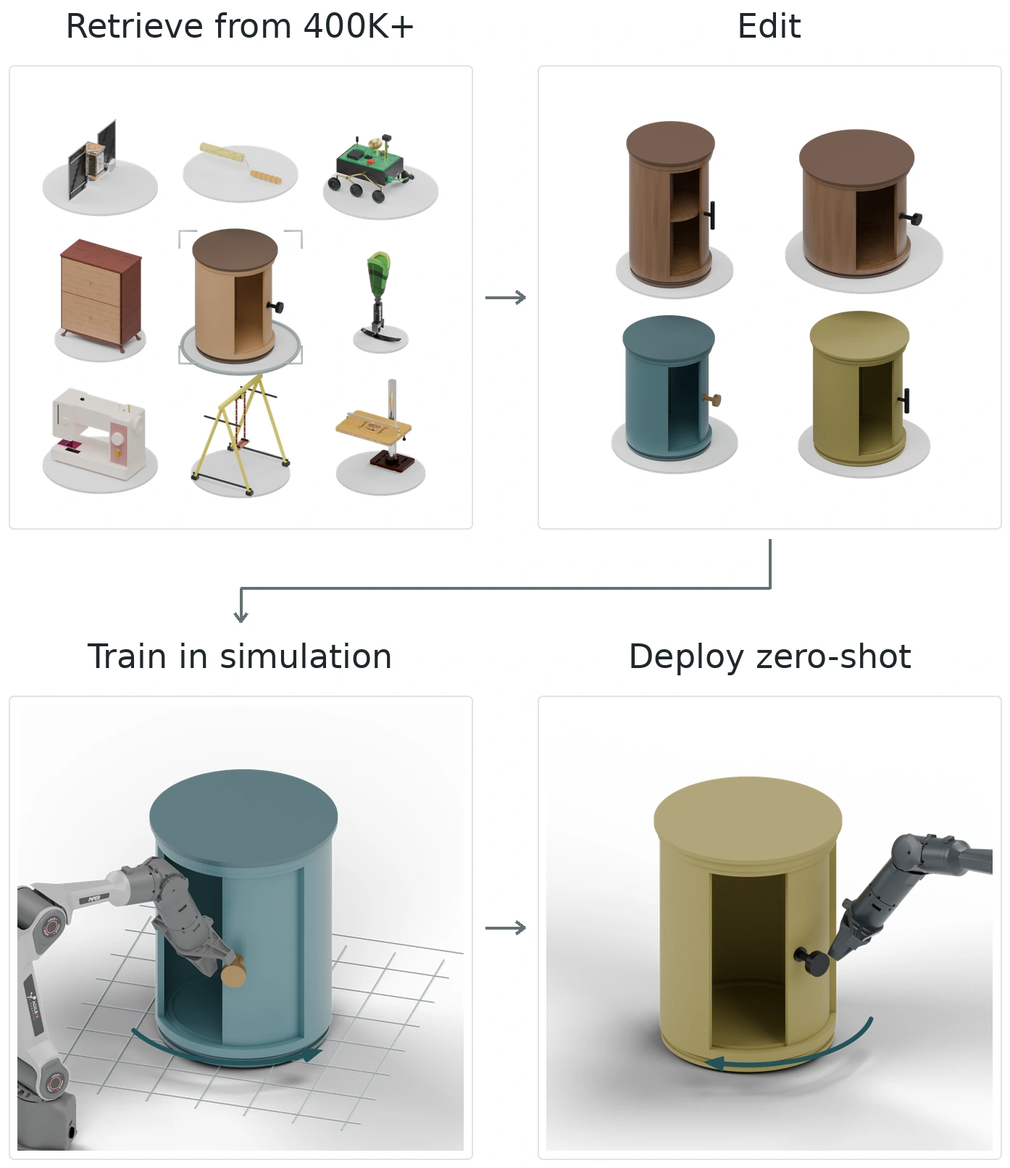
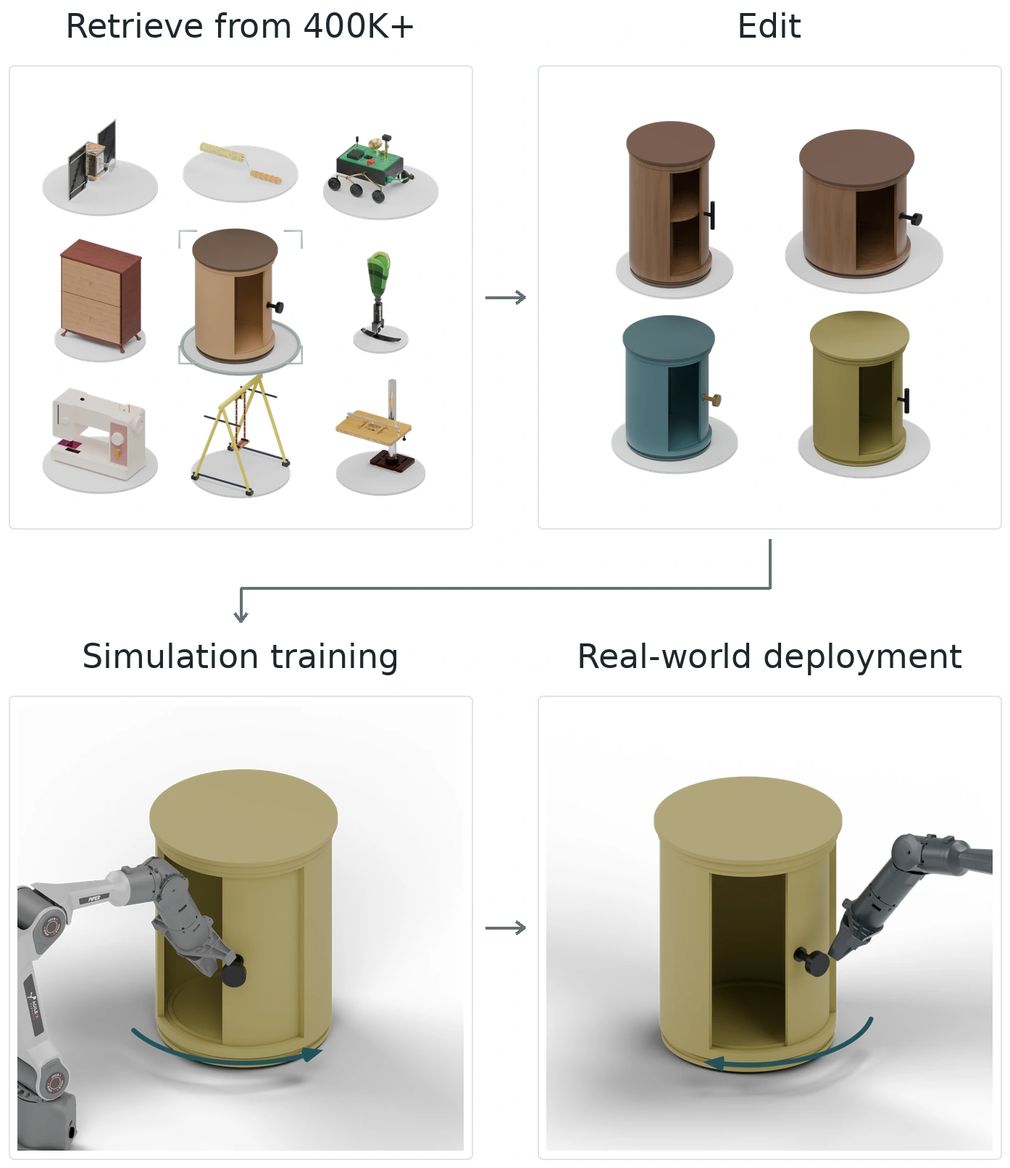
Simplify workflow captions and distinguish sim-real stages without a grid

diff --git a/src/style.css b/src/style.css
@@ -16,7 +16,7 @@
 /* Explorer remains the distinctive RFW-A interaction, but follows the reference's quiet cards. */
 .explorer{display:grid;grid-template-columns:320px minmax(0,1fr);border:1px solid var(--line);border-radius:5px;overflow:hidden;background:#fff}.asset-browser{min-height:624px;border-right:1px solid var(--line);display:flex;flex-direction:column}.browser-top{padding:16px;border-bottom:1px solid var(--line)}.browser-top>.mono{font-size:10px;color:var(--muted)}.search{display:flex;align-items:center;gap:8px;border:1px solid var(--line);border-radius:4px;padding:8px 9px;margin-top:12px}.search svg{width:15px;height:15px;color:var(--muted)}.search input{width:100%;border:0;outline:0;font-size:12px;background:transparent}.filter-row{display:flex;flex-wrap:wrap;gap:4px;margin-top:10px}.filter-row button{font-size:11px;padding:5px 8px;border-radius:3px;color:var(--muted)}.filter-row button.active{background:var(--accent);color:#fff}.asset-grid{display:grid;grid-template-columns:1fr 1fr;gap:8px;overflow-y:auto;max-height:496px;padding:11px;scrollbar-width:thin}.asset-card{text-align:left;border:1px solid var(--line);border-radius:4px;overflow:hidden;background:#fff;position:relative}.asset-card:hover{border-color:#999999}.asset-card.selected{border-color:var(--accent);box-shadow:inset 0 0 0 1px var(--accent)}.asset-card.selected:after{content:'↗';position:absolute;right:7px;top:4px;color:var(--accent);font-size:13px}.asset-card img{width:100%;aspect-ratio:1.2;object-fit:contain;background:#f5f5f5}.asset-card h4{font-size:10px;line-height:1.35;font-weight:500;margin:7px 8px 3px;overflow:hidden;text-overflow:ellipsis;white-space:nowrap}.asset-card>span{display:block;margin:0 8px 8px;font:8px var(--mono);color:var(--muted)}.empty-results{grid-column:1/-1;color:var(--muted);font-size:12px;padding:24px 8px}.asset-detail{min-width:0;position:relative;background:#fafafa}.viewer-toolbar{position:absolute;z-index:2;top:17px;left:20px;right:16px;display:flex;align-items:start;justify-content:space-between;pointer-events:none}.viewer-toolbar button{pointer-events:auto}.viewer-toolbar .eyebrow{font-size:9px}.viewer-toolbar h3{font-size:20px;margin-top:4px}.icon-button{width:29px;height:29px;display:grid;place-items:center;border:1px solid var(--line);border-radius:50%;background:#fff;font-size:13px}.icon-button:hover{border-color:var(--accent);color:var(--accent)}#model-viewer{height:365px;position:relative;background:#f5f5f5}#model-viewer canvas{width:100%;height:100%;display:block;touch-action:none}.viewer-loading{position:absolute;z-index:1;inset:0;display:grid;place-items:center;background:#f5f5f5;color:var(--muted);font:10px var(--mono);pointer-events:none}.viewer-loading[hidden]{display:none}.viewer-hint{position:absolute;bottom:12px;left:20px;color:#888888;font:8px var(--mono);letter-spacing:.04em;pointer-events:none}.motion-controls{display:flex;align-items:center;gap:11px;padding:10px 17px;border-top:1px solid var(--line);border-bottom:1px solid var(--line);background:#fff}.motion-controls .icon-button{width:25px;height:25px;font-size:10px}.motion-controls input{flex:1}.motion-controls .mono{font-size:9px;min-width:40px;text-align:right;color:var(--muted)}.asset-info-tabs{display:flex;gap:24px;padding:0 19px;border-bottom:1px solid var(--line);background:#fff}.asset-info-tabs button{font-size:11px;padding:12px 0;border-bottom:2px solid transparent;color:var(--muted)}.asset-info-tabs button[aria-selected=true]{border-bottom-color:var(--accent);color:var(--accent)}.asset-info{padding:15px 19px;min-height:145px;background:#fff}.info-summary{display:flex;gap:28px}.info-summary span{display:block;font-size:9px;color:var(--muted);margin-bottom:2px}.info-summary strong{font-size:17px;font-weight:500}.joint-chips{display:flex;gap:5px;flex-wrap:wrap;margin-top:11px}.joint-chips span{border:1px solid var(--line);padding:4px 6px;border-radius:3px;font:8px var(--mono);color:var(--muted)}.viewer-note{font-size:9px;color:var(--muted);padding:4px 19px 12px;background:#fff}.material-select{width:100%;border:1px solid var(--line);border-radius:3px;background:#fff;padding:7px;font-size:10px;margin-bottom:9px}.material-parts{font-size:8px;color:var(--muted);margin-bottom:9px}.physics-grid{display:grid;grid-template-columns:repeat(3,1fr);gap:9px}.physics-grid>div{font-size:10px}.physics-grid small{display:block;color:var(--muted);font-size:8px;margin-bottom:2px}.joint-limits{font-size:9px;margin-top:10px}.joint-limits summary{cursor:pointer;color:var(--muted)}.joint-limits dl{display:grid;grid-template-columns:1fr auto;gap:5px 14px;margin:8px 0}.joint-limits dd{margin:0;color:var(--muted);font-family:var(--mono);font-size:8px}
 /* Method, editing, material and benchmark blocks stay rectangular and information-first. */
-.idea-section{background:#fff;border-block:1px solid var(--line)}.flow-symbol{display:block;color:var(--accent);font:20px var(--mono);margin-bottom:12px}.step-number{position:absolute;top:18px;right:16px;color:var(--muted);font:10px var(--mono)}.figure-button{width:100%;border:1px solid var(--line);background:#fff;border-radius:4px;text-align:left;padding:13px}.figure-button img{width:100%;height:auto;object-fit:contain}.figure-button>span{display:flex;justify-content:space-between;font:13px/1.5 var(--sans);color:var(--muted);padding:14px 2px 0}.cost-panel{display:grid;grid-template-columns:1fr 1fr;gap:65px;margin-top:44px;padding-top:30px;border-top:1px solid var(--line)}.cost-panel h3{font-size:24px;margin:7px 0}.cost-panel p{font-size:12px;color:var(--muted);max-width:420px}.cost-label{display:flex;justify-content:space-between;font-size:11px;margin:23px 0 12px}.cost-label output{font:12px var(--mono);color:var(--accent)}#sample-count{width:100%}.range-labels{display:flex;justify-content:space-between;color:var(--muted);font-size:9px;margin-top:5px}.cost-row{display:grid;grid-template-columns:1fr auto auto;align-items:baseline;gap:8px;margin-bottom:16px}.cost-row>span{font-size:11px}.cost-row>strong{font-size:24px;font-weight:500}.cost-row small{font-size:9px;color:var(--muted)}.cost-track{grid-column:1/-1;height:6px;background:#e2e2e2;border-radius:2px;overflow:hidden}.cost-track i{display:block;height:100%;background:#aaaaaa}.cost-row.ours{color:var(--accent)}.cost-row.ours .cost-track i{background:var(--accent)}.cost-footnote{font-size:9px!important;line-height:1.6}.pill-tabs{display:flex;gap:5px;flex-wrap:wrap}.pill-tabs button{font-size:11px;border:1px solid var(--line);border-radius:4px;padding:8px 12px;color:var(--muted);background:#fff}.pill-tabs button[aria-selected=true]{border-color:var(--accent);background:var(--accent-soft);color:var(--accent)}.editing-tabs button{font-size:10px}.editing-tabs button span{font-size:11px;margin-left:10px}.edit-workbench{display:grid;grid-template-columns:minmax(0,1fr) 280px;border:1px solid var(--line);border-radius:4px;overflow:hidden;margin-top:16px}.edit-images{display:grid;grid-template-columns:1fr 1fr;background:var(--faint);position:relative}.edit-images figure{padding:15px;display:flex;flex-direction:column;min-width:0}.edit-images img{width:100%;aspect-ratio:1;object-fit:contain;margin:9px 0 12px;mix-blend-mode:multiply}.image-tag{font-size:8px;color:var(--muted)}.image-tag.accent{color:var(--accent)}.edit-images figcaption{font-size:11px;margin-top:auto;text-align:center}.edit-arrow{position:absolute;left:50%;top:50%;transform:translate(-50%,-50%);color:var(--accent);font-size:19px}.edit-control{border-left:1px solid var(--line);background:#fff;padding:23px 20px}.edit-control .eyebrow{font-size:9px}.edit-control h3{font-size:20px;margin:9px 0 7px}.edit-control p{font-size:11px;color:var(--muted);line-height:1.6}.edit-control fieldset{border:0;padding:0;margin:17px 0;display:flex;gap:5px;flex-wrap:wrap}.edit-control fieldset button{font-size:10px;border:1px solid var(--line);border-radius:3px;padding:6px 8px}.edit-control fieldset button[aria-pressed=true]{border-color:var(--accent);color:var(--accent);background:var(--accent-soft)}.code-readout{border:1px solid var(--line);background:var(--faint);padding:10px}.code-readout span{display:block;font-size:8px;color:var(--muted)}.code-readout code{font:10px/1.7 var(--mono);color:var(--accent)}.edit-control .note{font-size:8px;margin-top:10px}.material-section{display:grid;grid-template-columns:1fr 1fr;gap:70px;padding:72px 0;border-bottom:1px solid var(--line)}.material-copy h2{font-size:38px;line-height:1.2;margin:8px 0 13px}.material-copy>p{font-size:13px;color:var(--muted);max-width:420px}.material-stats{display:flex;gap:30px;margin:22px 0}.material-stats strong{font-size:25px;font-weight:500}.material-stats span{display:block;font-size:10px;color:var(--muted)}.material-copy .note{font-family:var(--sans);font-size:10px}.material-diagram{border:1px solid var(--line);padding:24px;border-radius:4px;background:var(--faint);align-self:center}.material-diagram>.mono{font-size:9px;color:var(--muted)}.property-list{display:grid;grid-template-columns:1fr 1fr;margin-top:13px;gap:0 25px}.property-list>span{display:flex;align-items:center;gap:8px;padding:15px 0;border-bottom:1px solid var(--line);font-size:11px}.property-list i{font:italic 19px var(--sans);color:var(--accent);width:22px}.property-list small{font:8px var(--mono);color:var(--muted);margin-left:auto}.material-diagram .text-link{font-size:10px;margin-top:20px}.results-section{background:#fff;border-bottom:1px solid var(--line)}.result-highlights{display:grid;grid-template-columns:repeat(3,1fr);gap:25px;margin:38px 0}.result-highlights article{border-left:2px solid var(--line);padding-left:18px}.result-highlights article:first-child{border-left-color:var(--accent)}.result-highlights .mono{font-size:9px;color:var(--muted)}.result-highlights strong{display:block;font-size:38px;font-weight:500;letter-spacing:-.04em;margin:9px 0 5px}.result-highlights strong span{font-size:18px;color:var(--accent)}.result-highlights p{font-size:11px;color:var(--muted)}.benchmark-toolbar{display:flex;justify-content:space-between;align-items:center;gap:15px;margin-bottom:17px}.benchmark-toolbar label{font-size:11px;color:var(--muted)}.benchmark-toolbar select{border:1px solid var(--line);background:#fff;border-radius:3px;padding:5px 8px;font-size:11px}.table-scroll{overflow:auto;border:1px solid var(--line);border-radius:4px}table{width:100%;border-collapse:collapse;text-align:right;white-space:nowrap;font-size:11px}th{padding:11px 14px;text-align:right;background:var(--faint);font-size:10px;color:var(--muted);font-weight:500}th:first-child,td:first-child{text-align:left}td,tbody th{padding:10px 14px;border-top:1px solid var(--line);font-size:11px}tbody th{background:#fff;color:var(--ink);font-weight:400}tbody tr.ours{background:var(--accent-soft);color:var(--accent);font-weight:600}tbody tr.ours th{font-weight:600;background:transparent;color:var(--accent)}.table-note{font-size:10px;color:var(--muted);line-height:1.7;margin-top:10px;max-width:950px}.qualitative{border-top:1px solid var(--line);margin-top:22px;padding-top:15px;font-size:11px}.qualitative summary{display:flex;justify-content:space-between;cursor:pointer}.qualitative img{margin-top:18px}.abstract{max-width:720px;margin:30px auto 0;border-top:1px solid var(--line);padding-top:13px;text-align:left;font-size:11px}.abstract summary{display:flex;justify-content:space-between;cursor:pointer}.abstract p{font-size:12px;color:var(--muted);line-height:1.8;margin-top:15px}footer{border-top:1px solid var(--line);padding:22px 0;display:flex;justify-content:space-between;align-items:center;color:var(--muted)}footer p{font-size:10px;text-align:center;line-height:1.6}footer p a{color:var(--accent)}.back-top{font-size:10px}.media-dialog{padding:0;border:0;border-radius:5px;background:#222222;max-width:min(1100px,92vw);max-height:90vh;overflow:visible}.media-dialog::backdrop{background:#222222cc;backdrop-filter:blur(5px)}.media-dialog video{max-height:85vh;width:100%}.dialog-close{position:absolute;right:0;top:-35px;color:#fff;font-size:18px}.figure-dialog{background:#fff;overflow:auto}.figure-dialog img{max-height:80vh}.figure-dialog p{padding:12px;font-size:11px;color:var(--muted)}.sr-only{position:absolute;width:1px;height:1px;overflow:hidden;clip:rect(0,0,0,0);white-space:nowrap}[hidden]{display:none!important}
+.idea-section{background:#fff;border-block:1px solid var(--line)}.flow-symbol{display:block;color:var(--accent);font:20px var(--mono);margin-bottom:12px}.step-number{position:absolute;top:18px;right:16px;color:var(--muted);font:10px var(--mono)}.figure-button{width:100%;border:1px solid var(--line);background:#fff;border-radius:4px;text-align:left;padding:13px}.figure-button img{width:100%;height:auto;object-fit:contain}.figure-button>span{display:flex;justify-content:space-between;font:13px/1.5 var(--sans);color:var(--muted);padding:14px 2px 0}.cost-panel{display:grid;grid-template-columns:1fr 1fr;gap:65px;margin-top:44px;padding-top:30px;border-top:1px solid var(--line)}.cost-panel h3{font-size:24px;margin:7px 0}.cost-panel p{font-size:12px;color:var(--muted);max-width:420px}.cost-label{display:flex;justify-content:space-between;font-size:11px;margin:23px 0 12px}.cost-label output{font:12px var(--mono);color:var(--accent)}#sample-count{width:100%}.range-labels{display:flex;justify-content:space-between;color:var(--muted);font-size:9px;margin-top:5px}.cost-row{display:grid;grid-template-columns:1fr auto auto;align-items:baseline;gap:8px;margin-bottom:16px}.cost-row>span{font-size:11px}.cost-row>strong{font-size:24px;font-weight:500}.cost-row small{font-size:9px;color:var(--muted)}.cost-track{grid-column:1/-1;height:6px;background:#e2e2e2;border-radius:2px;overflow:hidden}.cost-track i{display:block;height:100%;background:#aaaaaa}.cost-row.ours{color:var(--accent)}.cost-row.ours .cost-track i{background:var(--accent)}.cost-footnote{font-size:9px!important;line-height:1.6}.pill-tabs{display:flex;gap:5px;flex-wrap:wrap}.pill-tabs button{font-size:11px;border:1px solid var(--line);border-radius:4px;padding:8px 12px;color:var(--muted);background:#fff}.pill-tabs button[aria-selected=true]{border-color:var(--accent);background:var(--accent-soft);color:var(--accent)}.editing-tabs button{font-size:10px}.editing-tabs button span{font-size:11px;margin-left:10px}.edit-workbench{display:grid;grid-template-columns:minmax(0,1fr) 280px;border:1px solid var(--line);border-radius:4px;overflow:hidden;margin-top:16px}.edit-images{display:grid;grid-template-columns:1fr 1fr;background:var(--faint);position:relative}.edit-images figure{padding:15px;display:flex;flex-direction:column;min-width:0}.edit-images img{width:100%;aspect-ratio:1;object-fit:contain;margin:9px 0 12px;mix-blend-mode:multiply}.image-tag{font-size:8px;color:var(--muted)}.image-tag.accent{color:var(--accent)}.edit-images figcaption{font-size:11px;margin-top:auto;text-align:center}.edit-arrow{position:absolute;left:50%;top:50%;transform:translate(-50%,-50%);color:var(--accent);font-size:19px}.edit-control{border-left:1px solid var(--line);background:#fff;padding:23px 20px}.edit-control .eyebrow{font-size:9px}.edit-control h3{font-size:20px;margin:9px 0 7px}.edit-control p{font-size:11px;color:var(--muted);line-height:1.6}.edit-control fieldset{border:0;padding:0;margin:17px 0;display:flex;gap:5px;flex-wrap:wrap}.edit-control fieldset button{font-size:10px;border:1px solid var(--line);border-radius:3px;padding:6px 8px}.edit-control fieldset button[aria-pressed=true]{border-color:var(--accent);color:var(--accent);background:var(--accent-soft)}.code-readout{border:1px solid var(--line);background:var(--faint);padding:10px}.code-readout span{display:block;font-size:8px;color:var(--muted)}.code-readout code{font:10px/1.7 var(--mono);color:var(--accent)}.edit-control .note{font-size:8px;margin-top:10px}.material-section{display:grid;grid-template-columns:1fr 1fr;gap:70px;padding:72px 0;border-bottom:1px solid var(--line)}.material-copy h2{font-size:38px;line-height:1.2;margin:8px 0 13px}.material-copy>p{font-size:13px;color:var(--muted);max-width:420px}.material-stats{display:flex;gap:30px;margin:22px 0}.material-stats strong{font-size:25px;font-weight:500}.material-stats span{display:block;font-size:10px;color:var(--muted)}.material-copy .note{font-family:var(--sans);font-size:10px}.material-diagram{border:1px solid var(--line);padding:24px;border-radius:4px;background:var(--faint);align-self:center}.material-diagram>.mono{font-size:9px;color:var(--muted)}.property-list{display:grid;grid-template-columns:1fr 1fr;margin-top:13px;gap:0 25px}.property-list>span{display:flex;align-items:center;gap:8px;padding:15px 0;border-bottom:1px solid var(--line);font-size:11px}.property-list i{font:italic 19px var(--sans);color:var(--accent);width:22px}.property-list small{font:8px var(--mono);color:var(--muted);margin-left:auto}.material-diagram .text-link{font-size:10px;margin-top:20px}.results-section{background:#fff;border-bottom:1px solid var(--line)}.result-highlights{display:grid;grid-template-columns:repeat(3,1fr);gap:25px;margin:38px 0}.result-highlights article{border-left:2px solid var(--line);padding-left:18px}.result-highlights article:first-child{border-left-color:var(--accent)}.result-highlights .mono{font-size:9px;color:var(--muted)}.result-highlights strong{display:block;font-size:38px;font-weight:500;letter-spacing:-.04em;margin:9px 0 5px}.result-highlights strong span{font-size:18px;color:var(--accent)}.result-highlights p{font-size:11px;color:var(--muted)}.benchmark-toolbar{display:flex;justify-content:space-between;align-items:center;gap:15px;margin-bottom:17px}.benchmark-toolbar label{font-size:11px;color:var(--muted)}.benchmark-toolbar select{border:1px solid var(--line);background:#fff;border-radius:3px;padding:5px 8px;font-size:11px}.table-scroll{overflow:auto;border:1px solid var(--line);border-radius:4px}table{width:100%;border-collapse:collapse;text-align:right;white-space:nowrap;font-size:11px}th{padding:11px 14px;text-align:right;background:var(--faint);font-size:10px;color:var(--muted);font-weight:500}th:first-child,td:first-child{text-align:left}td,tbody th{padding:10px 14px;border-top:1px solid var(--line);font-size:11px}tbody th{background:#fff;color:var(--ink);font-weight:400}tbody tr.ours{background:var(--accent-soft);color:var(--accent);font-weight:600}tbody tr.ours th{font-weight:600;background:transparent;color:var(--accent)}.table-note{font-size:10px;color:var(--muted);line-height:1.7;margin-top:10px;max-width:950px}.qualitative{border-top:1px solid var(--line);margin-top:22px;padding-top:15px;font-size:11px}.qualitative summary{display:flex;justify-content:space-between;cursor:pointer}.qualitative img{margin-top:18px}.abstract{max-width:720px;margin:30px auto 0;border-top:1px solid var(--line);padding-top:13px;text-align:left;font-size:11px}.abstract summary{display:flex;justify-content:space-between;cursor:pointer}.abstract p{font-size:12px;color:var(--muted);line-height:1.8;margin-top:15px}footer{border-top:1px solid var(--line);padding:22px 0;display:flex;justify-content:space-between;align-items:center;color:var(--muted)}footer p{font-size:10px;text-align:center;line-height:1.6}footer p a{color:var(--accent)}.back-top{font-size:10px}.media-dialog{padding:0;border:0;border-radius:5px;background:#222222;max-width:min(1100px,92vw);max-height:90vh;overflow:visible}.media-dialog::backdrop{background:#222222cc;backdrop-filter:blur(5px)}.media-dialog video{max-height:85vh;width:100%}.dialog-close{position:absolute;right:0;top:-35px;color:#fff;font-size:18px}.figure-dialog{background:#fff;overflow:auto}.figure-dialog img{max-height:80vh}.sr-only{position:absolute;width:1px;height:1px;overflow:hidden;clip:rect(0,0,0,0);white-space:nowrap}[hidden]{display:none!important}
 @media(max-width:900px){.wrap{width:calc(100% - 36px)}.header{padding:0 18px}.header nav{gap:14px}.nav-last{padding-left:14px}.intro{padding-top:55px}.section-heading{grid-template-columns:1fr 280px;gap:35px}.explorer{grid-template-columns:275px 1fr}.stats strong{font-size:26px}.stats>div{padding:0 17px}.material-section{gap:35px}.edit-workbench{grid-template-columns:1fr 245px}}
 @media(max-width:680px){.header{height:58px}.header nav{display:none;position:absolute;left:0;right:0;top:58px;background:#fff;padding:15px 18px;border-bottom:1px solid var(--line);flex-wrap:wrap}.header nav.open{display:flex}.menu-toggle{display:block}.header .brand-small{display:none}.intro{padding:42px 0 28px}.intro-grid h1{font-size:34px}.intro-copy{font-size:14px}.authors{font-size:12px}.world-stage{aspect-ratio:1.2}.scene-bottom h2{font-size:23px}.scene-bottom p{font-size:10px}.scene-tabs button{padding:10px 6px;gap:5px;font-size:10px;justify-content:center}.scene-tab-count{display:none}.stats{grid-template-columns:1fr 1fr;gap:23px 0}.stats>div,.stats>div:first-child{padding:0 14px;border-left:1px solid var(--line)}.stats>div:nth-child(odd){padding-left:0;border-left:0}.stats strong{font-size:25px}.section{padding:58px 0}.section-heading{display:block;margin-bottom:24px}.section-heading h2{font-size:31px}.section-heading>p{font-size:12px;margin-top:14px}.explorer{display:block}.asset-browser{border-right:0;border-bottom:1px solid var(--line);min-height:0}.asset-grid{grid-template-columns:repeat(3,1fr);max-height:220px}.asset-card h4{font-size:9px}.asset-card>span{font-size:7px}.asset-detail{min-height:0}#model-viewer{height:330px}.viewer-toolbar{top:15px;left:16px}.viewer-toolbar h3{font-size:18px}.asset-info{min-height:160px}.physics-grid{gap:7px}.physics-grid>div{font-size:9px}.flow-symbol{margin-bottom:9px}.figure-button>span{font-size:11px;gap:8px;flex-wrap:wrap}.cost-panel,.material-section{grid-template-columns:1fr;gap:28px}.cost-panel{margin-top:28px}.material-section{padding:55px 0}.material-copy h2{font-size:31px}.property-list{gap:0 12px}.property-list>span{font-size:10px}.result-highlights{gap:12px}.result-highlights article{padding-left:10px}.result-highlights strong{font-size:28px}.result-highlights p{font-size:9px}.benchmark-toolbar{display:block}.benchmark-toolbar .pill-tabs{margin-bottom:12px}.edit-workbench{display:block}.edit-control{border-left:0;border-top:1px solid var(--line)}footer{flex-wrap:wrap;gap:15px}footer p{width:100%;order:3;text-align:left}.desktop{display:none}}
 @media(prefers-reduced-motion:reduce){html{scroll-behavior:auto}}
@@ -50,7 +50,7 @@
 @media(max-width:760px){.section{padding-block:45px}.section-heading h2{font-size:29px}.scene-heading h2{font-size:28px}.hero-abstract-wrap{padding:20px 0}}
 
 /* Compact academic section headings; the figures and demonstrations carry the page. */
-.section-heading h2,.scene-heading h2,.material-copy h2{font-size:34px;line-height:1.3;margin:0}.section-heading>p,.scene-heading>p{font-size:15px;max-width:720px}.material-copy h2{margin-bottom:16px}.cost-panel h3,.benchmark-label h3{font-size:22px}.figure-dialog{max-width:min(1600px,96vw)}.figure-dialog img{max-height:none;width:100%;height:auto}.figure-dialog .dialog-close{position:sticky;top:0;display:block;margin-left:auto;width:40px;height:40px;color:var(--ink);background:#fff;border:1px solid var(--line);z-index:1}.figure-dialog p{font-size:13px}
+.section-heading h2,.scene-heading h2,.material-copy h2{font-size:34px;line-height:1.3;margin:0}.section-heading>p,.scene-heading>p{font-size:15px;max-width:720px}.material-copy h2{margin-bottom:16px}.cost-panel h3,.benchmark-label h3{font-size:22px}.figure-dialog{max-width:min(1600px,96vw)}.figure-dialog img{max-height:none;width:100%;height:auto}.figure-dialog .dialog-close{position:sticky;top:0;display:block;margin-left:auto;width:40px;height:40px;color:var(--ink);background:#fff;border:1px solid var(--line);z-index:1}
 @media(max-width:760px){.section-heading h2,.scene-heading h2,.material-copy h2{font-size:28px}.section-heading>p,.scene-heading>p{font-size:13px}.citation-box pre{padding:14px}}
 
 input[type=range]{accent-color:var(--accent)}

diff --git a/index.html b/index.html
@@ -81,7 +81,7 @@
 <section class="section results-section" id="validation"><div class="wrap"><div class="section-heading"><div><h2>Physical validation</h2></div><p>Kinematic validity, simulator import, and stable rollouts.</p></div><div class="validation-cards"><article><span class="mono">KINEMATIC VALIDITY</span><strong>100.0<span>%</span></strong><p>Full-release assets passing the kinematic validity check.</p></article><article><span class="mono">SIMULATOR IMPORT</span><strong>100.0<span>%</span></strong><p>Core-200 assets imported across the evaluated simulators.</p></article><article><span class="mono">STABLE ROLLOUT</span><strong>99.5<span>%</span></strong><p>One-second stable rollouts on Core-200.</p></article></div><div class="benchmark" id="benchmark"><div class="benchmark-label"><h3>Results</h3><p>Dataset scale, asset quality, and articulation estimation. Select a column to sort.</p></div><div class="benchmark-toolbar"><div class="pill-tabs" role="tablist" aria-label="Result group"><button role="tab" aria-selected="true" data-result="scale">Dataset scale</button><button role="tab" aria-selected="false" data-result="validity">Asset quality</button><button role="tab" aria-selected="false" data-result="transfer">Articulation estimation</button></div><label id="split-control" hidden>Evaluation split <select id="split-select"><option value="ood">Category OOD</option><option value="in">In-domain</option></select></label></div><div class="table-scroll" tabindex="0" role="region" aria-label="Paper results table"><table id="results-table"></table></div><p class="table-note" id="results-note"></p></div><details class="qualitative"><summary>Qualitative results <span>＋</span></summary><img src="./media/articulation.webp" loading="lazy" alt="Qualitative comparison of PM-only, PM plus Articraft, PM plus RFW-A-400K and ground truth"/></details></div></section>
 <section class="section wrap robotics-section" id="sim2real" aria-labelledby="robotics-title">
  <div class="section-heading"><h2 id="robotics-title">Robotic manipulation</h2></div>
- <button class="robotics-flow" data-lightbox="media/robotics-flow.webp?v=ae51d1d7203b" data-lightbox-mobile="media/robotics-flow-mobile.webp?v=34ef02e7ee4a" data-caption="Retrieve → optionally edit → train in simulation → deploy zero-shot. Rendered close-ups illustrate opening and closing; real-world trials are shown below." aria-label="Enlarge the robotic manipulation workflow"><picture><source media="(max-width: 760px)" srcset="./media/robotics-flow-mobile.webp?v=34ef02e7ee4a" width="1394" height="1612"/><img src="./media/robotics-flow.webp?v=ae51d1d7203b" width="2854" height="742" loading="lazy" alt="Retrieve a half-open round cabinet from a diverse 400K+ pool; edit proportions, handles, interior and materials, with two matching wood finishes. Close-ups show a Piper arm opening an edited cabinet in simulation and closing the yellow target in a deployment schematic. All four panels are rendered illustrations."/></picture><span aria-hidden="true">Enlarge ↗</span></button>
+ <button class="robotics-flow" data-lightbox="media/robotics-flow.webp?v=cdb288316606" data-lightbox-mobile="media/robotics-flow-mobile.webp?v=224743e50dee" data-caption="Retrieve → optionally edit → train in simulation → deploy zero-shot. Rendered close-ups illustrate opening and closing; real-world trials are shown below." aria-label="Enlarge the robotic manipulation workflow"><picture><source media="(max-width: 760px)" srcset="./media/robotics-flow-mobile.webp?v=224743e50dee" width="1394" height="1612"/><img src="./media/robotics-flow.webp?v=cdb288316606" width="2854" height="742" loading="lazy" alt="Retrieve a half-open round cabinet from a diverse 400K+ pool; edit proportions, handles, interior and materials, with two matching wood finishes. Close-ups show a Piper arm opening an edited cabinet in simulation and closing the yellow target in a deployment schematic. All four panels are rendered illustrations."/></picture><span aria-hidden="true">Enlarge ↗</span></button>
  <div id="robotics-picker" class="robotics-picker" role="group" aria-label="Choose a manipulation task"></div>
  <div class="robotics-playback"><h3 id="robotics-selection" aria-live="polite">Cabinet</h3><div><button id="robotics-play" aria-controls="robotics-grid">Play videos</button><button id="robotics-replay" aria-controls="robotics-grid">Replay</button></div></div>
  <p id="task-description" class="robotics-description">Open the cabinet door with the left arm, then close it with the right arm.</p>
@@ -104,7 +104,7 @@
 <footer class="wrap"><a class="wordmark" href="#">RFW–A <span class="brand-small">2026</span></a><p>Website inspired by <a href="https://physicalvision.github.io/artisan/" target="_blank" rel="noopener">Artisan ↗</a></p><a class="back-top" href="#">Back to top ↑</a></footer>
 <dialog id="robotics-dialog" class="robotics-dialog" aria-labelledby="robotics-dialog-title"><div class="robotics-dialog-heading"><h2 id="robotics-dialog-title">Task video</h2><button class="dialog-close" aria-label="Close task video">✕</button></div><video controls muted playsinline loop preload="none"></video></dialog>
 <dialog id="film-dialog" class="media-dialog"><button class="dialog-close" aria-label="Close film">✕</button><video controls playsinline preload="none" poster="./media/film-poster.webp" src="./media/film.mp4"></video></dialog>
-<dialog id="figure-dialog" class="media-dialog figure-dialog"><button class="dialog-close" aria-label="Close figure">✕</button><img alt=""/><p></p></dialog>
+<dialog id="figure-dialog" class="media-dialog figure-dialog"><button class="dialog-close" aria-label="Close figure">✕</button><img alt=""/></dialog>
 <dialog id="dataset-dialog" class="dataset-dialog" aria-labelledby="dataset-asset-title">
  <div class="dataset-dialog-header"><div><span class="eyebrow" id="dataset-asset-tag"></span><h2 id="dataset-asset-title">Dataset asset</h2></div><button class="dialog-close" id="dataset-close" aria-label="Close dataset asset">✕</button></div>
  <div class="dataset-inspector"><div class="dataset-inspector-visual"><div id="dataset-viewer"><p id="dataset-loading" role="status">Loading model…</p><span class="viewer-hint">DRAG TO ROTATE · SCROLL TO ZOOM</span></div><div class="dataset-view-controls"><button id="dataset-reset">Reset view</button><button id="dataset-parts" aria-pressed="false">Show parts</button><button id="dataset-share">Copy sample link</button></div></div>

diff --git a/src/main.js b/src/main.js
@@ -37,7 +37,7 @@ const videoObserver=new IntersectionObserver(entries=>entries.forEach(e=>{if(!e.
 // Dialogs retain native focus trapping and Escape behavior.
 const film=$('#film-dialog');$$('.film-open').forEach(b=>b.addEventListener('click',()=>{film.showModal();film.querySelector('video').play().catch(()=>{});}));film.addEventListener('close',()=>film.querySelector('video').pause());film.addEventListener('cancel',()=>film.querySelector('video').pause());
 $$('dialog').forEach(d=>{d.querySelector('.dialog-close').addEventListener('click',()=>d.close());d.addEventListener('click',e=>{if(e.target===d){const r=d.getBoundingClientRect();if(e.clientX<r.left||e.clientX>r.right||e.clientY<r.top||e.clientY>r.bottom)d.close();}});});
-$$('[data-lightbox]').forEach(b=>b.addEventListener('click',()=>{const d=$('#figure-dialog');d.querySelector('img').src=url(b.dataset.lightboxMobile&&matchMedia('(max-width: 760px)').matches?b.dataset.lightboxMobile:b.dataset.lightbox);d.querySelector('img').alt=b.dataset.caption;d.querySelector('p').textContent=b.dataset.caption;d.showModal();}));
+$$('[data-lightbox]').forEach(b=>b.addEventListener('click',()=>{const d=$('#figure-dialog');d.querySelector('img').src=url(b.dataset.lightboxMobile&&matchMedia('(max-width: 760px)').matches?b.dataset.lightboxMobile:b.dataset.lightbox);d.querySelector('img').alt=b.dataset.caption;d.showModal();}));
 
 let catalog=[],selected=null,filter='all',viewer=null,viewerPromise=null,selectionVersion=0,infoTab='structure';
 function setFilter(value){filter=value;$$('[data-filter]').forEach(b=>{b.classList.toggle('active',b.dataset.filter===value);b.setAttribute('aria-pressed',b.dataset.filter===value);});renderCatalog();}

diff --git a/scripts/render_robotics_workflow.py b/scripts/render_robotics_workflow.py
@@ -426,7 +426,7 @@ def robot_scene(deploy=False):
             if deploy:
                 ob.data.materials.clear();ob.data.materials.append(graphite)
     root, meshes, _ = cabinet(q=p['joints']['round_cabinet_crown_molding']['body_to_door'])
-    finish_cabinet(meshes, 'target' if deploy else 'blue_gray')
+    finish_cabinet(meshes, 'target')
     raw = p['mechanism_roots']['round_cabinet_crown_molding']
     root.location, root.scale = raw[:3], (.66,) * 3
     root.rotation_mode = 'QUATERNION'
@@ -436,18 +436,11 @@ def robot_scene(deploy=False):
     bpy.ops.mesh.primitive_plane_add(size=200, location=(0, 0, .737))
     floor = bpy.context.object;floor.name = 'Contact shadow plane'
     floor.is_shadow_catcher = True;floor.data.materials.append(WHITE)
-    if not deploy:
-        grid = material('Simulation grid', (.26, .33, .36), roughness=.9)
-        for i in range(-3, 5):
-            x = .347+i*.08
-            line('Grid X', [(x, -.23, .738), (x, .30, .738)], grid, .00065)
-        for i in range(-3, 4):
-            y = .034+i*.08
-            line('Grid Y', [(.08, y, .738), (.64, y, .738)], grid, .00065)
     motion_arrow(raw[:3], opening=not deploy)
     camera((-3.0, 2.0, 1.8) if deploy else (-3.0, -.9, 1.8), target=(.30, .025, .945), scale=.70)
     audit['illustration_only'] = True
-    audit['cabinet_finish'] = 'target' if deploy else 'blue_gray'
+    audit['cabinet_finish'] = 'target'
+    audit['simulation_grid'] = False
     audit['robot_finish'] = 'graphite presentation finish' if deploy else 'original Collada materials'
     audit['target_material_source'] = '/opt/isaacsim/isaac_route/assets/articulated/generated/round_cabinet_crown_molding_appearance.usda'
 

diff --git a/scripts/compose_robotics_workflow.py b/scripts/compose_robotics_workflow.py
@@ -12,7 +12,7 @@ TMP = Path('/tmp/rfw-workflow')
 MEDIA = ROOT / 'public/media'
 FONT = '/usr/share/fonts/dejavu/DejaVuSans.ttf'
 PANELS = ['retrieve', 'edit', 'train', 'deploy']
-TITLES = ['Retrieve from 400K+', 'Edit', 'Train in simulation', 'Deploy zero-shot']
+TITLES = ['Retrieve from 400K+', 'Edit', 'Simulation training', 'Real-world deployment']
 SIZE = 640
 GAP = 90
 MARGIN = 12

diff --git a/output/robotics-workflow/README.md b/output/robotics-workflow/README.md
@@ -20,11 +20,11 @@ version. Desktop and mobile WebP assets are composed from the same four panels.
    exposing the interior while remaining inside the original 102° door travel.
    The native T-bar dimensions are translated radially by 25 mm to match this
    cabinet. These are presentation edits, not new evaluated training samples.
-3. **Train in simulation**: a close-up of the left Piper arm pushing the blue-gray
+3. **Simulation training**: a close-up of the left Piper arm pushing the yellow
    cabinet open. Pose and door state come from simulation frame 900. The cabinet
-   scale is 0.66, exactly as in `isaac_route/common/sim_asset.py`. A light spatial
-   grid and an arc around the real door axis show the simulation context and motion.
-4. **Deploy zero-shot**: a close-up of the right Piper arm pushing the yellow
+   scale is 0.66, exactly as in `isaac_route/common/sim_asset.py`. An arc around
+   the real door axis shows the opening motion; there is no ground grid.
+4. **Real-world deployment**: a close-up of the right Piper arm pushing the yellow
    target cabinet closed, with a reversed motion arrow and a graphite hardware
    finish. It uses simulation frame 1800 as the pose for a deployment illustration;
    it is not a recovered real-world robot pose, photograph, or real trial.
@@ -53,8 +53,7 @@ branch; it does not redefine all three experimental training conditions.
 - Retrieved cabinet base colors: original URDF material palette. Adjacent appearance manifests
   contain incomplete texture references; these are not replaced with invented textures.
 - Target cabinet material: the runtime USD appearance layer, diffuse `(0.23, 0.19, 0.045)`
-  and roughness 0.85. This appears in one edit and the deployment panel. The training panel uses the
-  same blue-gray finish as another edit.
+  and roughness 0.85. The same finish appears in one edit and both the training and deployment panels.
 
 The two walnut variants share one procedural wood shader definition; this is an
 illustrative material edit, not a claimed source dataset texture. The shelf/post
@@ -62,7 +61,7 @@ visual is imported from the native `seed_0000/model.urdf`, without changing its
 mesh. It attaches to the cabinet body; the other variants retain the original empty cavity.
 
 Sources remain read-only. Lighting, camera placement, selection brackets, display
-plinths, simulation grid and motion arrows are presentation elements. Lettering, borders and
+plinths and motion arrows are presentation elements. Lettering, borders and
 arrows outside the panels are composed with Pillow, using a sans-serif font.
 
 ## Reproduce
@@ -87,3 +86,10 @@ previous revision.
 `render-audit.json` records sources, edits, devices and native URDF forward-kinematics
 agreement with the recorded robot finger poses (maximum position error is recorded in the audit).
 This verifies pose import, not physics validity of the illustrative edits.
+
+The enlarged image viewer has no visible caption below the picture; accessible
+image descriptions remain available as alt text.
+
+The last two headings explicitly distinguish simulation training and real-world
+deployment. Both cabinets share the target yellow material; the robot finishes
+remain light in simulation and graphite in the deployment schematic.
